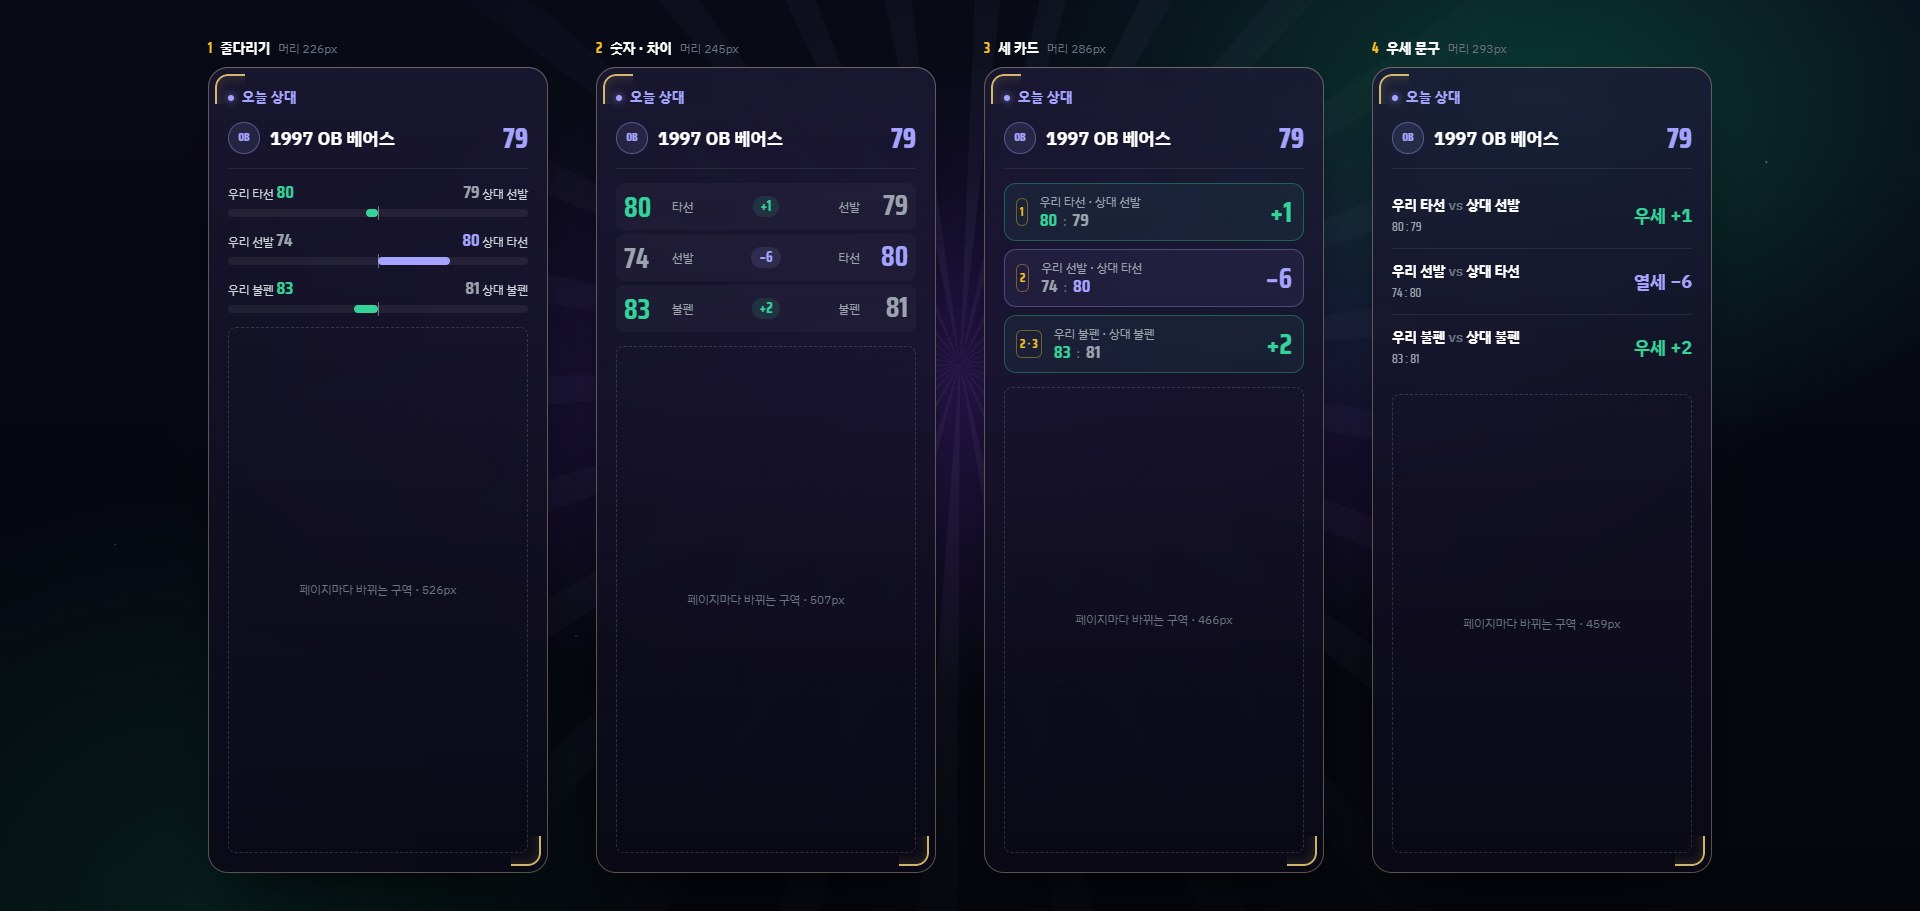
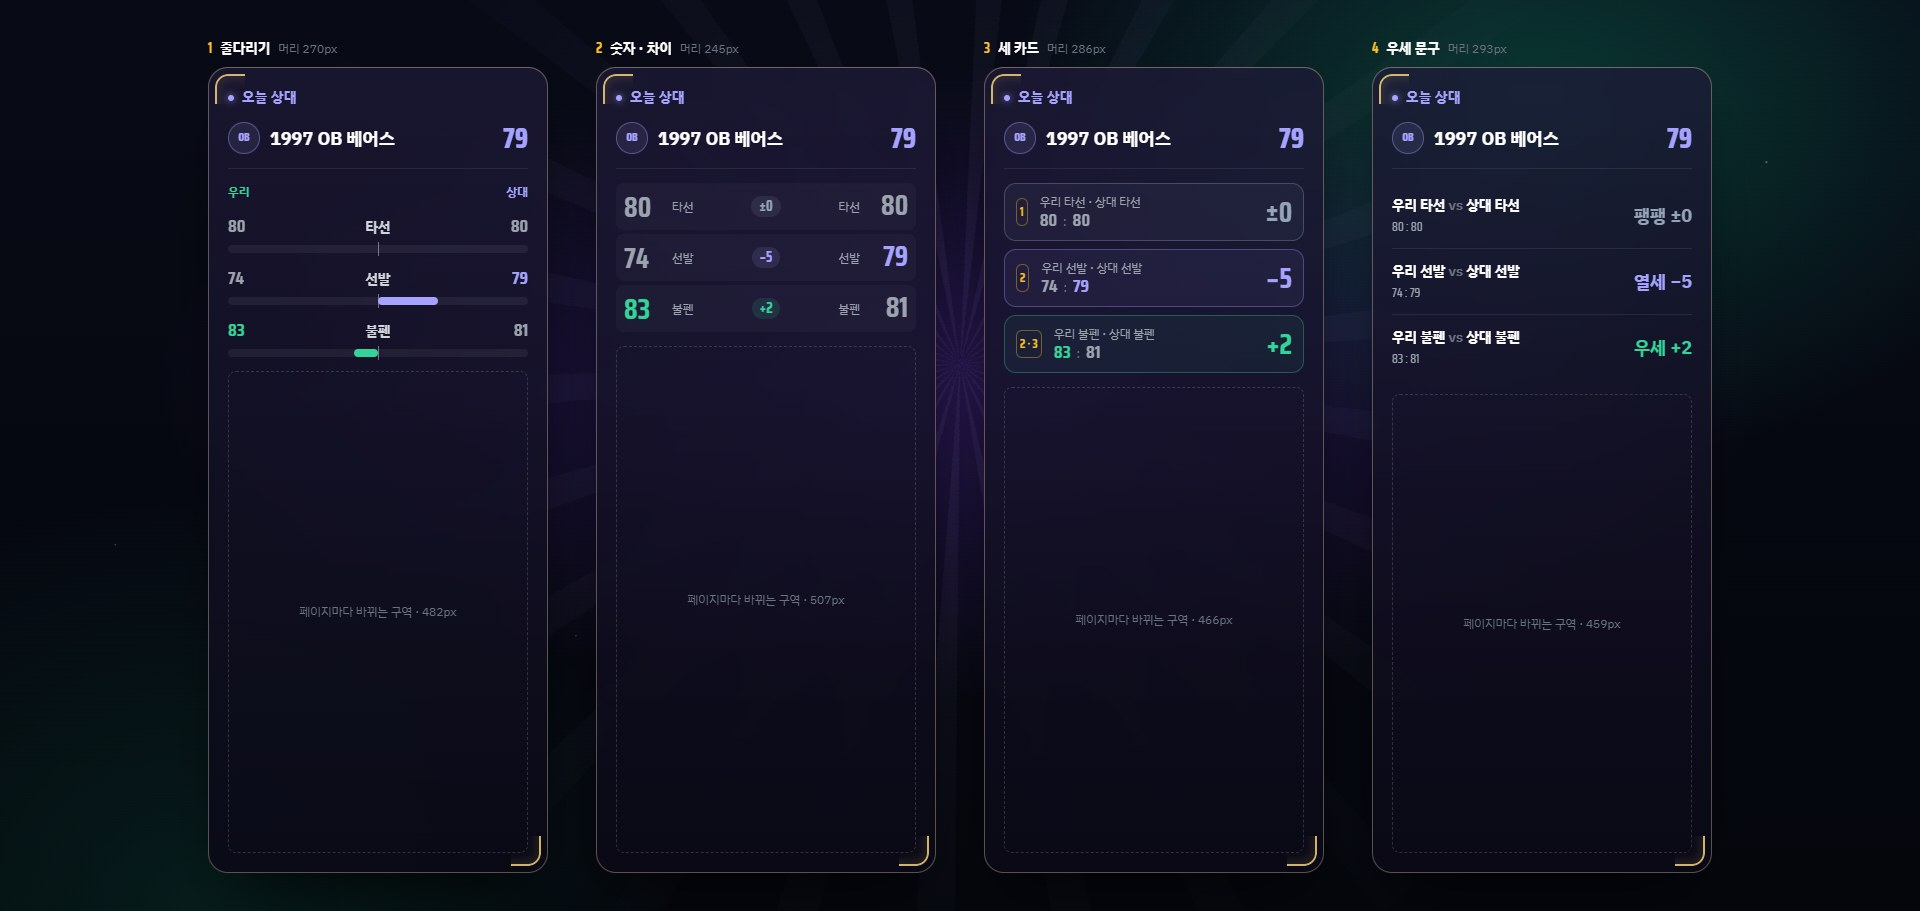
목업 — 맞대결을 같은 것끼리(타선 · 선발 · 불펜), 1안 줄다리기는 가운데 이름 · 양끝 값

diff --git a/mockups/scout-matchup/main.jsx b/mockups/scout-matchup/main.jsx
@@ -1,5 +1,6 @@
 /*
  * 상대 판 공통 머리 — 맞대결 세 줄 목업 (/mockups/scout-matchup/?p=1 → 1~4안, ?p=2 → 5~8안, 실제 크기 340 × 806)
+ * (10-03 고침) 같은 것끼리 맞댄다 — 타선 vs 타선 · 선발 vs 선발 · 불펜 vs 불펜(눈금이 같아 그대로 견줄 수 있다).
  * 머리 = 구단 한 줄 + 맞대결 세 줄. 세 단계의 결정이 모두 이 셋 가운데 하나에 달려 있다(plan-sim · flow-sim):
  *  우리 타선 vs 상대 선발   → 1 라인업(타순)
  *  우리 선발 vs 상대 타선   → 2 선발 운용 · 볼 배합
@@ -41,9 +42,9 @@ const PAGE = Number(new URLSearchParams(location.search).get('p') || 1);
 const cut = (c) => ({ '--c': `${c}px` });
 /* 맞대결 세 줄 — [우리 이름, 우리 값, 상대 이름, 상대 값, 쓰는 단계, 우리 얼굴, 상대 얼굴] */
 const ROWS = [
-  { us: '우리 타선', u: avg(ME.batters, bat), them: '상대 선발', t: Math.round(arm(OP.pitchers[0])), step: '1', up: topBat(ME), tp: OP.pitchers[0] },
-  { us: '우리 선발', u: Math.round(arm(ME.pitchers[0])), them: '상대 타선', t: avg(OP.batters, bat), step: '2', up: ME.pitchers[0], tp: topBat(OP) },
-  { us: '우리 불펜', u: avg(pen3(ME), arm), them: '상대 불펜', t: avg(pen3(OP), arm), step: '2 · 3', up: pen3(ME)[0], tp: pen3(OP)[0] },
+  { us: '우리 타선', u: avg(ME.batters, bat), them: '상대 타선', t: avg(OP.batters, bat), step: '1', up: topBat(ME), tp: topBat(OP), ko: '타선' },
+  { us: '우리 선발', u: Math.round(arm(ME.pitchers[0])), them: '상대 선발', t: Math.round(arm(OP.pitchers[0])), step: '2', up: ME.pitchers[0], tp: OP.pitchers[0], ko: '선발' },
+  { us: '우리 불펜', u: avg(pen3(ME), arm), them: '상대 불펜', t: avg(pen3(OP), arm), step: '2 · 3', up: pen3(ME)[0], tp: pen3(OP)[0], ko: '불펜' },
 ].map((r) => ({ ...r, d: r.u - r.t }));
 const sign = (d) => `${d > 0 ? '+' : d < 0 ? '−' : '±'}${Math.abs(d)}`;
 const tone = (d) => (d > 0 ? MY : d < 0 ? C : '#94a3b8');
@@ -63,11 +64,12 @@ const Num = ({ v, on, c, big }) => <b className={`font-display ${big ? 'text-t1'
 const V = {
   1: ['줄다리기', () => (
     <div className="flex flex-col gap-3.5">
+      <span className="flex justify-between text-t4 font-bold"><span style={{ color: MY }}>우리</span><span style={{ color: C }}>상대</span></span>
       {ROWS.map((r) => {
         const w = Math.min(50, Math.abs(r.d) * 4);
         return (
           <div key={r.us} className="flex flex-col gap-1.5">
-            <span className="flex items-baseline justify-between text-t4"><span className="text-gray-300">{r.us} <Num v={r.u} on={r.d > 0} c={MY} /></span><span className="text-gray-300"><Num v={r.t} on={r.d < 0} c={C} /> {r.them}</span></span>
+            <span className="grid items-baseline" style={{ gridTemplateColumns: '1fr auto 1fr' }}><Num v={r.u} on={r.d > 0} c={MY} /><span className="text-t3 font-bold text-gray-300">{r.ko}</span><span className="text-right"><Num v={r.t} on={r.d < 0} c={C} /></span></span>
             <span className="relative h-2 rounded-full bg-white/[0.06]">
               <i className="absolute inset-y-[-3px] left-1/2 w-px bg-white/40" />
               <i className="absolute inset-y-0 rounded-full" style={{ [r.d >= 0 ? 'right' : 'left']: '50%', width: `${w}%`, background: tone(r.d) }} />
